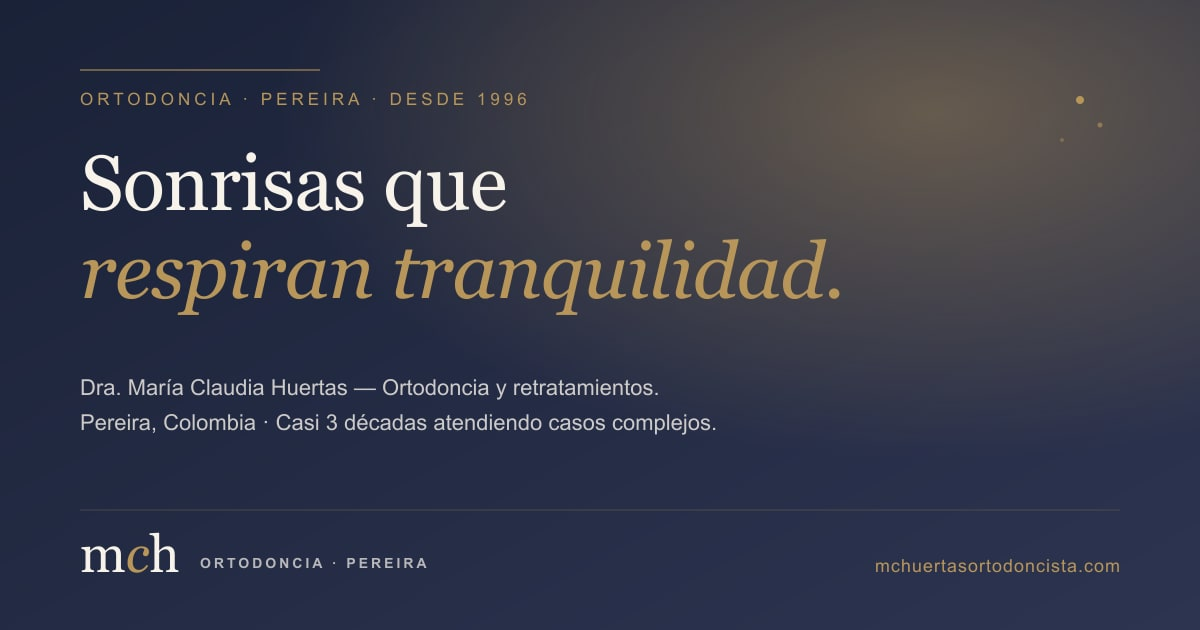
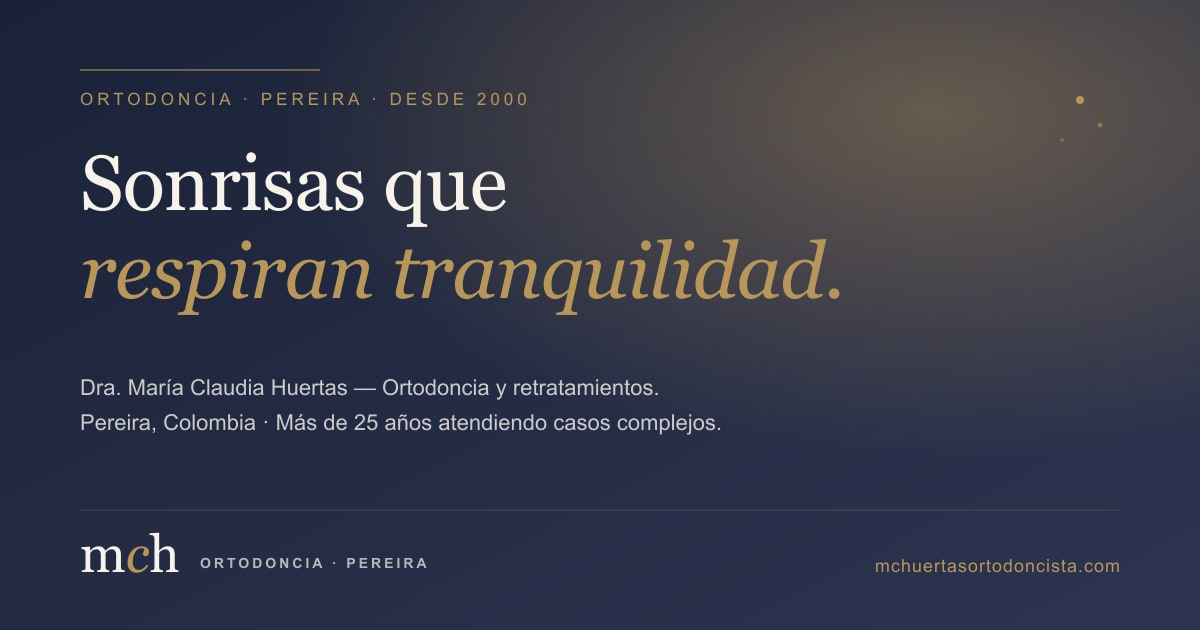
Update practice start year: 1996 → 2000 (per doctor's request)
Reflects the actual year Dra. Huertas began practicing. Adjusts all
copy referring to years/decades for consistency:

- 1996 → 2000 in eyebrows, footer, logo SVG, OG image, EN page
- yearsExperience: 30 → 25 in site.ts
- 'Treinta años' / 'Tres décadas' / 'Casi 3 décadas' → 'Más de 25 años'
- 'Three decades' / '30 years' (EN) → 'Over 25 years'
- Hero credential card: 1996 → 2000
- README and meta descriptions
- Regenerated og-default.png with new copy

Changed region(s): [[0.2158, 0.6635, 0.6167, 0.6937], [0.4008, 0.1508, 0.4317, 0.181]]

diff --git a/src/content/site.ts b/src/content/site.ts
@@ -7,8 +7,8 @@ export const SITE = {
   doctorShort: "Dra. Huertas",
   tagline: "Sonrisas que respiran tranquilidad",
   positioning: "La ortodoncista a la que llegan los casos difíciles",
-  yearsExperience: 30,
-  practiceSince: 1996,
+  yearsExperience: 25,
+  practiceSince: 2000,
   city: "Pereira",
   region: "Risaralda",
   country: "CO",
@@ -82,12 +82,12 @@ export const NAV_LINKS = [
 ] as const;
 
 export const HERO = {
-  eyebrow: "ORTODONCIA · PEREIRA · DESDE 1996",
+  eyebrow: "ORTODONCIA · PEREIRA · DESDE 2000",
   titlePre: "Sonrisas que",
   titleEmphasis: "respiran",
   titlePost: "tranquilidad.",
   subtitle:
-    "Casi tres décadas atendiendo casos complejos que otros colegas refieren: retratamientos, ortopedia maxilar y ortodoncia compleja. Aquí tu caso recibe el tiempo que merece.",
+    "Más de 25 años atendiendo casos complejos que otros colegas refieren: retratamientos, ortopedia maxilar y ortodoncia compleja. Aquí tu caso recibe el tiempo que merece.",
   ctaPrimary: "Agendar valoración",
   ctaSecondary: "WhatsApp directo",
   microcopy: "La consulta inicial se descuenta de tu tratamiento.",
@@ -157,7 +157,7 @@ export const ABOUT = {
   title: "María Claudia Huertas",
   subtitle: "Ortodoncista · U. Nacional · U. El Bosque · Miembro SCO",
   paragraphs: [
-    "Tres décadas en Pereira. Pregrado en la Universidad Nacional de Colombia, especialización en Ortodoncia en la Universidad El Bosque, y formación continua a través de la Sociedad Colombiana de Ortodoncia.",
+    "Más de 25 años en Pereira. Pregrado en la Universidad Nacional de Colombia, especialización en Ortodoncia en la Universidad El Bosque, y formación continua a través de la Sociedad Colombiana de Ortodoncia.",
     "Con los años, su consultorio se ha convertido en el lugar al que colegas refieren los casos que requieren más tiempo, más experiencia, o un nuevo abordaje después de tratamientos que no funcionaron como se esperaba.",
     "Atiende pacientes locales, de la región, y de otras ciudades del país y del exterior. Trabaja en español y en inglés.",
   ],
@@ -181,7 +181,7 @@ export const CTA_FINAL = {
   titleEmphasis: "tiempo,",
   titlePost: "no atajos.",
   subtitle:
-    "Treinta años atendiendo casos uno por uno. Si tu caso tiene historia, o si vienes por primera vez, mereces un diagnóstico completo y un plan diseñado para ti.",
+    "Más de 25 años atendiendo casos uno por uno. Si tu caso tiene historia, o si vienes por primera vez, mereces un diagnóstico completo y un plan diseñado para ti.",
   ctaPrimary: "Agendar valoración",
   ctaSecondary: "Escribir por WhatsApp",
 } as const;

diff --git a/src/lib/schema.ts b/src/lib/schema.ts
@@ -44,7 +44,7 @@ export function dentistSchema(siteUrl: string, services: ServiceEntry[]) {
     telephone: SITE.contact.whatsapp,
     email: SITE.contact.email,
     description:
-      "Ortodoncista en Pereira con 30 años de experiencia. Especialista en retratamientos y ortopedia maxilar.",
+      "Ortodoncista en Pereira con más de 25 años de experiencia. Especialista en retratamientos y ortopedia maxilar.",
     medicalSpecialty: "Orthodontics",
     priceRange: "$$",
     address: {

diff --git a/src/lib/seo.ts b/src/lib/seo.ts
@@ -10,7 +10,7 @@ export interface SeoMeta {
 const DEFAULTS = {
   title: "Dra. María Claudia Huertas · Ortodoncia y Retratamientos en Pereira",
   description:
-    "Ortodoncista en Pereira con 30 años de experiencia. Especialista en retratamientos y ortopedia maxilar. Agenda tu valoración.",
+    "Ortodoncista en Pereira con más de 25 años de experiencia. Especialista en retratamientos y ortopedia maxilar. Agenda tu valoración.",
   ogImage: "/og-default.png",
   lang: "es-CO",
 };

diff --git a/README.md b/README.md
@@ -1,6 +1,6 @@
 # MCH Ortodoncia — Landing page
 
-Sitio web profesional de la **Dra. María Claudia Huertas**, ortodoncista en Pereira (Colombia) con 30 años de experiencia. Especialidad: retratamientos y ortopedia maxilar.
+Sitio web profesional de la **Dra. María Claudia Huertas**, ortodoncista en Pereira (Colombia) con más de 25 años de experiencia. Especialidad: retratamientos y ortopedia maxilar.
 
 > **Posicionamiento:** *"La ortodoncista a la que llegan los casos difíciles."*
 > **Tagline:** *"Sonrisas que respiran tranquilidad."*
